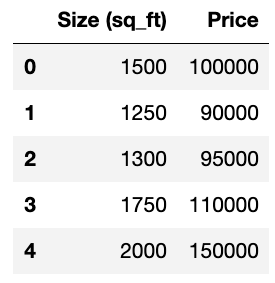
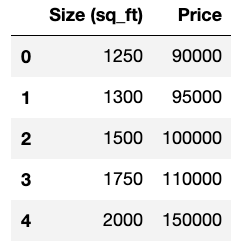
progressing on linear regression tutorial

diff --git a/blog-posts/blog-6.html b/blog-posts/blog-6.html
@@ -101,6 +101,18 @@
 
 					<h2>The Cost Function</h2>
 
+					<p>Our linear regression function is defined as \(h_\theta(x)\) where $$h_\theta(x) = \theta_0 + \theta_1x$$ You can see that this function is the same \(y = m(x) + b\) function that you learned in high school. As a side note, another name for our linear regression function is "hypothesis", and I'll be refering to it as such throughout the rest of the tutorial. Another side note: when you see anything to the i'th power in this tutorial, the notation is not to be interpreted as an exponent; it's referring to the current iteration.</p>
+
+					 <p>Our cost function is defined as $$J(\theta_0, \theta_1) = \frac{1}{2m} \sum_{i=0}^{m-1} (h_\theta(x^i) - y^i)^2$$ where \(m = \) the number of data points (which is 5 in our ongoing example). We want to find values of theta that will minimize our cost function. Before calculating \(J(\theta_0, \theta_1\)) for our red line above, we need to compute our values for \(h_\theta(x^i\)). Our values for \(\theta_0\) and \(\theta_1\) are -50 and 77, respectively. Don't worry about how we got these values; in the next part of this tutorial we'll see how these values are found using gradient descent. We'll now look the values located on the red line that are on the same vertical line as our data points. These will be the values for \(h_\theta(x)\) when we compute our cost function: $$h_\theta(x^0) = -50 + 77(1250) = 96,200$$ $$h_\theta(x^1) = -50 + 77(1300) = 100,050$$ $$h_\theta(x^2) = -50 + 77(1500) = 115,450$$ $$h_\theta(x^3) = -50 + 77(1750) = 134,700$$ $$h_\theta(x^4) = -50 + 77(2000) = 153,950$$</p>
+
+					 <p>Plugging these values into our cost function we get: $$J(-50, 77) = \frac{1}{10} * $$ $$((96,200 - 90,000)^2 + $$ $$(100,050 - 95,000)^2 + $$ $$(115,450 - 100,000)^2 + $$ $$(134,700 - 110,000)^2 + $$ $$(153,950 - 150,000)^2)$$</p>
+
+					 <p>which simplifies to $$J(-50, 77) = \frac{1}{10} * $$ $$((6,200)^2 + $$ $$(5,050)^2 + $$ $$(15,450)^2 + $$ $$(24,700)^2 + $$ $$(3,950)^2)$$</p>
+
+					 <p>and for our final answer we get $$J(-50, 77) = 92,833,750$$</p>
+
+					 <p>If we were to repeat the same process for the green line, our final answer would be $$J(-2204.03, 71.28) = 30,264,510.62$$</p>
+
 					<hr>
 					<br>
 

diff --git a/sass/components/_main-section.scss b/sass/components/_main-section.scss
@@ -191,13 +191,25 @@ samp {
 }
 
 .lr-0 {
-  width: 30rem;
-  height: 30rem;
-  margin: 0 auto;
+	width: 30rem;
+	height: 30rem;
+	margin: 0 auto;
+
+	@media screen and (max-width: 1100px) {
+		width: 15rem;
+		height: 15rem;
+		margin: 0 auto;
+	}
 }
 
 .lr-1, .lr-2 {
-  width: 60rem;
-  height: 40rem;
-  margin: 0 auto;
+	width: 60rem;
+	height: 40rem;
+	margin: 0 auto;
+
+	@media screen and (max-width: 1100px) {
+		width: 30rem;
+		height: 20rem;
+		margin: 0 auto;
+	}
 }

diff --git a/css/style.css b/css/style.css
@@ -210,11 +210,21 @@ samp {
   width: 30rem;
   height: 30rem;
   margin: 0 auto; }
+  @media screen and (max-width: 1100px) {
+    .lr-0 {
+      width: 15rem;
+      height: 15rem;
+      margin: 0 auto; } }
 
 .lr-1, .lr-2 {
   width: 60rem;
   height: 40rem;
   margin: 0 auto; }
+  @media screen and (max-width: 1100px) {
+    .lr-1, .lr-2 {
+      width: 30rem;
+      height: 20rem;
+      margin: 0 auto; } }
 
 .footer {
   font-size: 2rem;
